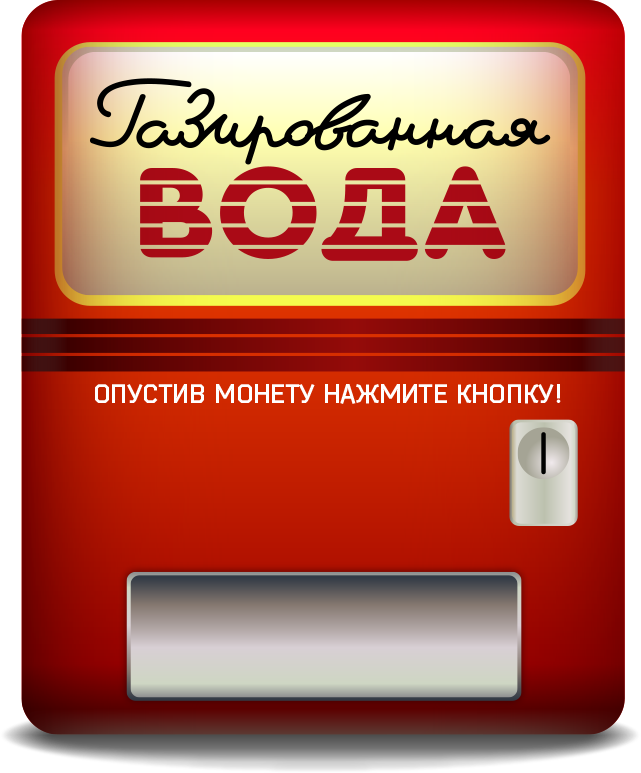
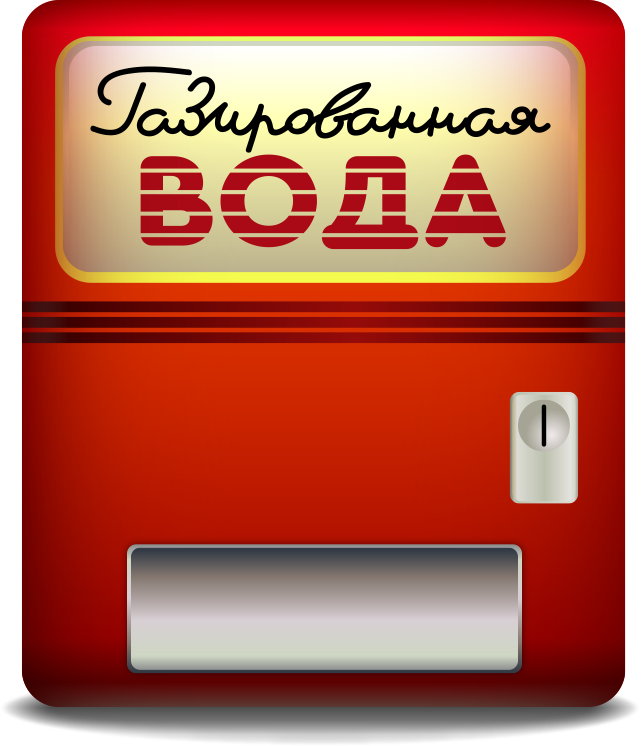
add comments

diff --git a/JS_LJS/js/script_fsm.js b/JS_LJS/js/script_fsm.js
@@ -1,16 +1,26 @@
 var mineralWaterTitle = document.getElementById('title-mineral');
 var sweetWaterTitle = document.getElementById('title-sweet');
-   
+ 
+// object contains countCoins, mineralWaterTitleState and sweetWaterTitleState variables
+//
 var machina = {
 	countCoins: 0,
 	currentState: 'InitialState',
 	mineralWaterTitleState: 'disable',
 	sweetWaterTitleState: 'disable',
+
+	//adds coins to this countCoins variable
 	addCoins: function(count) {
 		console.log('Func GetCoins \n 	CountCoins - ', this.countCoins);
 		console.log('	CurrentState - ', this.currentState);
 		this.countCoins += count;
-	},   
+	},
+
+	//changes current state based on countCoins value
+	//if countCoins = 0 && countCoins = 1, state will be - NeedCoins
+	//if countCoins = 2 state will be - MineralWaterState
+	//if countCoins = 3 state will be - SweetWaterState
+	//if countCoins > 3 state will be - End
 	changeState: function() {
 		console.log('Func ChangeState \n 	CurrentState - ', this.currentState);
 		console.log('	CountCoins - ', this.countCoins);
@@ -29,8 +39,10 @@ var machina = {
 						switchLightSweetTitle();
 					}
 					else switchLightSweetTitle();
+				break;
+			default: this.currentState = 'End';
+			}
 		}
-	}
 };
 
 /**
@@ -55,47 +67,53 @@ function switchLightSweetTitle() {
 	if(machina.sweetWaterTitleState == 'disable') {
 		machina.sweetWaterTitleState = 'active';
 		sweetWaterTitle.id = 'title-sweet-active';
-	} else {
-		makeDisableTitles();
-	}
+	} else {makeDisableTitles();}
 	console.log('Func switchLightSweetTitle \n 	State ', machina.sweetWaterTitleState);
 }
 
+/**
+ * makes all titles disable
+ */
 function makeDisableTitles() {
-		mineralWaterTitle.id = 'title-mineral';
-		machina.mineralWaterTitleState = 'disable';
-		sweetWaterTitle.id = 'title-sweet';
-		machina.sweetWaterTitleState = 'disable';
+	mineralWaterTitle.id = 'title-mineral';
+	machina.mineralWaterTitleState = 'disable';
+	sweetWaterTitle.id = 'title-sweet';
+	machina.sweetWaterTitleState = 'disable';
 }
 
 /**
- * switches the state for sweet water title
- * from disabled to active and back by changing id attribute
+ * choses sweet water by pushing the button
  */
 function chooseSweetWater() {
 	var sweetWaterPushButton = document.getElementsByClassName('push-button-sweet')[0];
 	sweetWaterPushButton.addEventListener("click", function(event) {
 		console.log('Func SweetWaterPushButton \n 	Event: ', event);
+
 		if(machina.sweetWaterTitleState == 'active') {
 			waterGlass.id = 'glassSweetlWater';
 			switchLightSweetTitle();
-			machina.countCoins -=3;
 		}
 	});
 }
 
+/**
+ * choses mineral water by pushing the button
+ */
 function chooseMineralWater() {
 	var mineralWaterPushButton = document.getElementsByClassName('push-button-mineral')[0];
 	mineralWaterPushButton.addEventListener("click", function(event) {
 		console.log('Func MineralWaterPushButton \n 	Event: ', event);
+
 		if(machina.mineralWaterTitleState == 'active') {
 			waterGlass.id = 'glassMineralWater';
 			switchLightMineralTitle();
-			machina.countCoins -=2;
 		}
 	});
 }
 
+/**
+ * makes coin disable by clicking on it
+ */
 function makeDisableCoin(coinValue) {
 	var coin1 = document.getElementsByClassName('coin1')[0];
 	var coin2 = document.getElementsByClassName('coin2')[0];
@@ -114,50 +132,54 @@ function makeDisableCoin(coinValue) {
 	}
 }
 
+/**
+ * changes text phrases by checking @countCoins value
+ * @countCoins value can be 0, 1, 2 or 3
+ * @text - html element
+ * @return -html element by id
+ */
 function changeTextPhrases(countCoins, text) {
 	console.log('Func textPhrases', text.value);
-  if ( countCoins == 1) {
-    text.value = 'ДОБАВЬТЕ ЕЩЕ МОНЕТ!';
-  } else  if(countCoins == 2) {
-    text.value = 'САМОЕ ВРЕМЯ ОСВЕЖИТЬСЯ!';
-  } 
-  else if(countCoins == 3) {text.value = 'НА СЛАДЕНЬКОЕ ПОТЯНУЛО?';}
-  return text;
+	if ( countCoins == 1) {text.value = 'ДОБАВЬТЕ ЕЩЕ МОНЕТ!';}
+	else if(countCoins == 2) {text.value = 'САМОЕ ВРЕМЯ ОСВЕЖИТЬСЯ!';} 
+	else if(countCoins == 3) {text.value = 'НА СЛАДЕНЬКОЕ ПОТЯНУЛО?';}
+ 	return text;
+}
+
+/**/
+function chooseCoin(coinValue) {
+	if(machina.countCoins < 3) {
+		machina.addCoins(coinValue);
+		makeDisableCoin(machina.countCoins);
+		animateText(changeTextPhrases(machina.countCoins, textHelp));
+		machina.changeState();
+	} else return;
 }
 	
-/**
- *
- */
+/**/
 function onClickCoins() {
 	animateText(changeTextPhrases(machina.countCoins, textHelp));
 	var coins = document.getElementsByClassName('coins')[0];
-
-	//adding event
-	coins.addEventListener("click", function(event) {
-	console.log('Func Start \n 	Element Target: ', event.target.id);
+	coins.addEventListener('click', function (event) {
+	console.log('Func Start \n 	Element Target: ', event.target.className);
 	switch(event.target.className) {
-		case 'coin1': machina.addCoins(1);
-			makeDisableCoin(machina.countCoins);
-			animateText(changeTextPhrases(machina.countCoins, textHelp));
+		case 'coin1': chooseCoin(1);
 			break;
-		case 'coin2': machina.addCoins(2);
-			animateText(changeTextPhrases(machina.countCoins, textHelp));
-			makeDisableCoin(machina.countCoins);
+		case 'coin2': chooseCoin(2);
 			break;
-		case 'coin3': machina.addCoins(3);
-			animateText(changeTextPhrases(machina.countCoins, textHelp));
-			makeDisableCoin(machina.countCoins);
+		case 'coin3': chooseCoin(3);
 			break;
 		}
-		machina.changeState();
 	});
 }
+
+
 
 /** Entry point */
 function start() {
 	onClickCoins();
 	chooseSweetWater();
-	chooseMineralWater();
+	chooseMineralWater();	
 }
 
 start();

diff --git a/JS_LJS/sass/style.css b/JS_LJS/sass/style.css
@@ -4,7 +4,13 @@ body {
 	background-color: #282828;
 }
 
+.help-title {
+	position: absolute;
+
+}
 #textHelp {
+	margin-top: 348px;
+	margin-left: 74px;
 	font-family: "Bender";
 	font-size: 20pt;
 	background: transparent;
@@ -13,8 +19,9 @@ body {
 }
 
 .wrapper {
-	margin-top: 5%;
-	position: relative;
+	margin: 0 auto;
+	width: 75%;
+	margin-top: 2%;
 }
 
 .help-title {
@@ -24,36 +31,35 @@ body {
 }
 
 .machine {
-	position: relative;
-	margin: 0 auto;
+	margin-left: 25%;
 	width: 641px;
-	height: 773px;
+	height: 730px;
 	background-image: url("../PNG/machine.png");
 }
 
 .water-field {
-	display: block;
+	position: relative;
 }
 
 #title-mineral {
 	position: absolute;
-	margin: 418px 0 0 68px;
+	margin: 390px 0 0 68px;
 	width: 284px;
-	height: 53px;
+	height: 56px;
 	background: url(../PNG/title_mineral_sprite.png) 0 0;
 }
 
 #title-mineral-active {
 	position: absolute;
-	margin: 418px 0 0 68px;
+	margin: 390px 0 0 68px;
 	width: 284px;
-	height: 53px;
-	background: url(../PNG/title_mineral_sprite.png) 0 72px;
+	height: 56px;
+	background: url(../PNG/title_mineral_sprite.png) 0 56px;
 }
 
 .push-button-mineral {
 	position: absolute;
-	margin: 415px 0 0 350px;
+	margin: 391px 0 0 350px;
 	width: 66px;
 	height: 64px;
 	background: url(../PNG/button.svg);
@@ -65,24 +71,24 @@ body {
 
 #title-sweet {
 	position: absolute;
-	margin: 474px 0 0 68px;
+	margin: 450px 0 0 68px;
 	width: 284px;
-	height: 53px;
+	height: 56px;
 	background: url(../PNG/title_sweet_sprite.png) 0 0;
 }
 
 #title-sweet-active {
 	position: absolute;
-	margin: 474px 0 0 68px;
+	margin: 450px 0 0 68px;
 	width: 284px;
-	height: 53px;
-	background: url(../PNG/title_sweet_sprite.png) 0 72px;
+	height: 56px;
+	background: url(../PNG/title_sweet_sprite.png) 0 56px;
 }
 
 
 .push-button-sweet {
 	position: absolute;
-	margin: 472px 0 0 350px;
+	margin: 451px 0 0 350px;
 	width: 66px;
 	height: 64px;
 	background: url(../PNG/button.svg);
@@ -95,7 +101,7 @@ body {
 #waterGlass {
 	position: absolute;
 	display: block;
-	margin-top: 92%;
+	margin-top: 87%;
 	margin-left: 42%;
 	width: 101px;
 	height: 108px;
@@ -105,7 +111,7 @@ body {
 #glassMineralWater {
 	position: absolute;
 	display: block;
-	margin-top: 92%;
+	margin-top: 87%;
 	margin-left: 42%;
 	width: 101px;
 	height: 108px;
@@ -115,7 +121,7 @@ body {
 #glassSweetlWater {
 	position: absolute;
 	display: block;
-	margin-top: 92%;
+	margin-top: 87%;
 	margin-left: 42%;
 	width: 101px;
 	height: 108px;
@@ -123,8 +129,9 @@ body {
 }
 
 .coins {
-	display: block;
+/*	display: block;*/
 	float: left;
+	width: 15%;
 	margin: 10% 0 0 5%;
 }
 

diff --git a/JS_LJS/index.html b/JS_LJS/index.html
@@ -9,30 +9,27 @@
 </head>
 <body>
 	<div class="wrapper">
-		<div class="help-title">
-			<textArea id="textHelp" cols="100">ВЫБЕРИТЕ МОНЕТУ!!!</textArea>
-		</div>
 		<div class="coins">
 			<div class="coin1"></div>
 			<div class="coin2"></div>
 			<div class="coin3"></div>
 		</div>
 		<div class="machine">
+			<div class="help-title">
+				<textArea id="textHelp" cols="100">ВЫБЕРИТЕ МОНЕТУ!!!</textArea>
+			</div>
 			<div class="water-field">
 				<div id="title-mineral"></div>
 				<div class="push-button-mineral"></div>
-			</div>
-			<div class="water-field">
 				<div id="title-sweet"></div>
 				<div class="push-button-sweet"></div>
-			</div>
-			<div class="water-glass-comtainer">
-				<div id="waterGlass"></div>
+				<div class="water-glass-container">
+					<div id="waterGlass"></div>
+				</div>
 			</div>
 		</div>
 	</div>
 
-	//bacground music
 	<embed src="./sound/bensound-jazzcomedy.mp3"
 		   autostart="true"
 		   loop="true"
